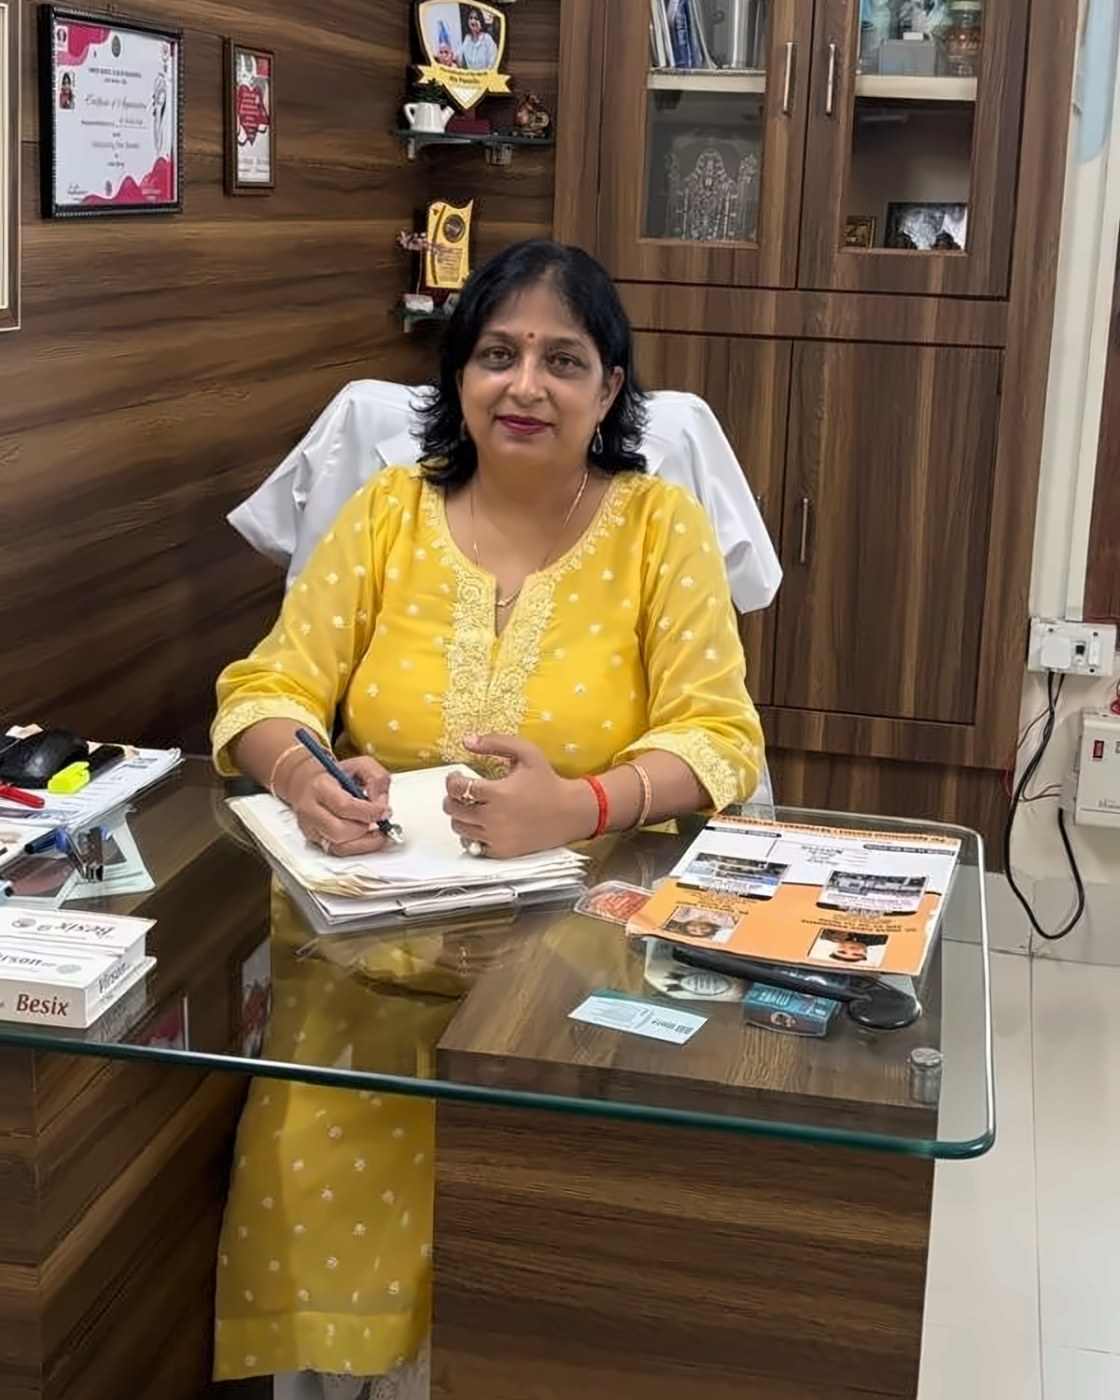
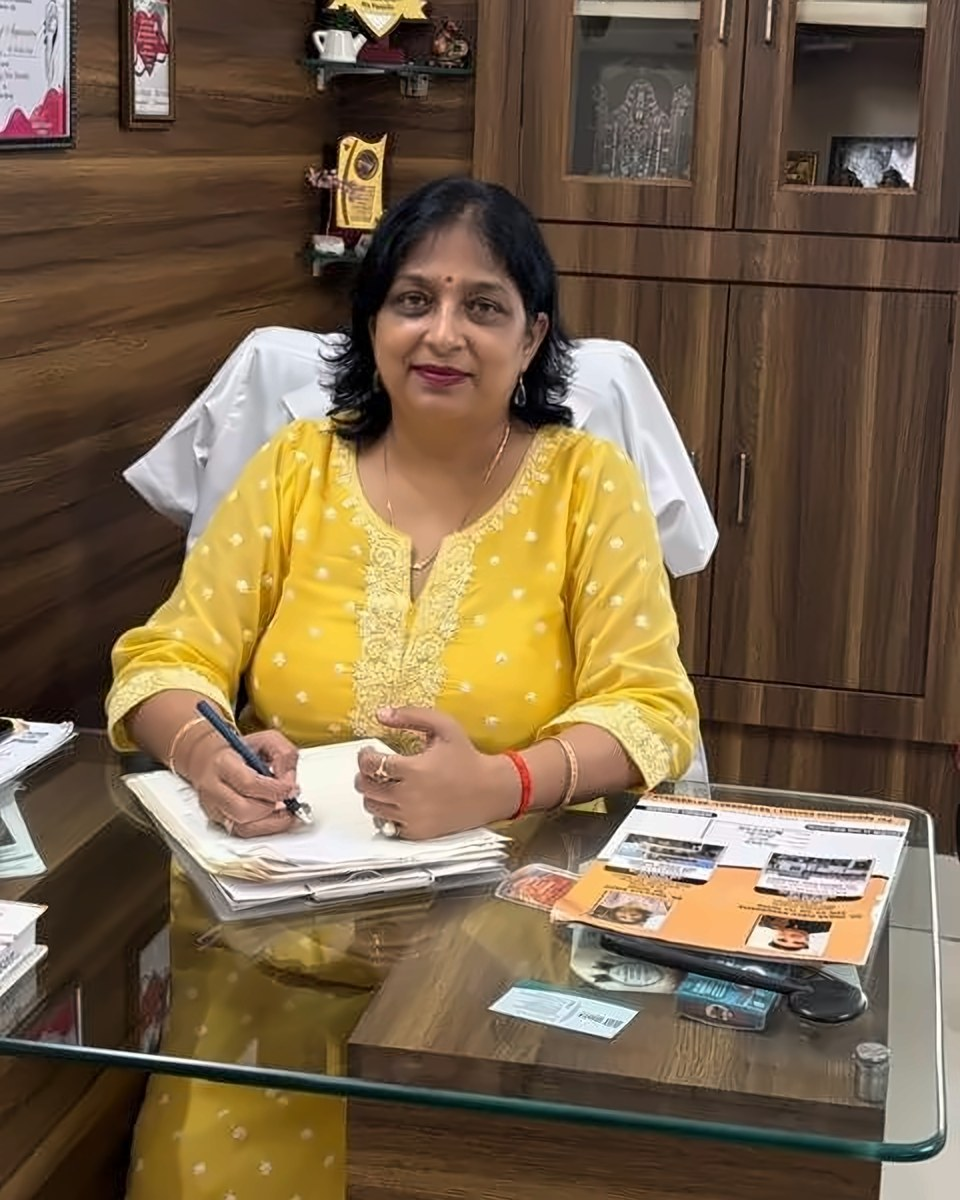
Wordmark BBSM only; free Super Speciality OPD wording; speciality and background photo swaps
- Header and footer wordmark show only BBSM (red); 'Nursing Home' dropped
- 'Last Sunday' labels now read 'Free OPD on Last Sunday of Every Month'
- Cancer & Oncology uses the hospital's consultation photo; its AI picture
  moves to the Patient Experience background; General Physician gets a new
  AI picture; Dr. Amit Raj Sharma's photo removed; Dr. Shailaja Singh re-cropped

diff --git a/src/lib/data.ts b/src/lib/data.ts
@@ -60,8 +60,8 @@ export const DOCTORS: Doctor[] = [
     role: "Gastro-Onco Surgeon",
     title: "Gastro-Onco Surgeon",
     group: "Super Speciality",
-    availability: "Last Sunday of Month | 9:00 AM – 12:00 PM",
-    days: "Last Sunday",
+    availability: "Free OPD on Last Sunday of Every Month | 9:00 AM – 12:00 PM",
+    days: "Last Sunday · Free OPD",
     time: "9 AM – 12 PM",
     institution: "Rajiv Gandhi Cancer Institute & Research Centre, New Delhi",
     forWhat: "GI cancers, stomach/abdominal oncology surgery, second opinions on cancer diagnosis",
@@ -76,8 +76,8 @@ export const DOCTORS: Doctor[] = [
     role: "IVF Specialist | Gynaecologist & Obstetrician",
     title: "IVF Specialist, Gynaecologist & Obstetrician",
     group: "Super Speciality",
-    availability: "Last Sunday of Month | 9:00 AM – 12:00 PM",
-    days: "Last Sunday",
+    availability: "Free OPD on Last Sunday of Every Month | 9:00 AM – 12:00 PM",
+    days: "Last Sunday · Free OPD",
     time: "9 AM – 12 PM",
     forWhat: "IVF, infertility, irregular periods, pregnancy care, gynaecological concerns",
     expertise: "IVF, infertility evaluation, high-risk pregnancies, antenatal care, gynaecological procedures.",
@@ -91,8 +91,8 @@ export const DOCTORS: Doctor[] = [
     role: "Uro Surgeon",
     title: "Uro Surgeon",
     group: "Super Speciality",
-    availability: "Last Sunday of Month | 9:00 AM – 12:00 PM",
-    days: "Last Sunday",
+    availability: "Free OPD on Last Sunday of Every Month | 9:00 AM – 12:00 PM",
+    days: "Last Sunday · Free OPD",
     time: "9 AM – 12 PM",
     institution: "Rajiv Gandhi Cancer Institute & Research Centre, New Delhi",
     forWhat: "Kidney stones, prostate, urinary issues, blood in urine, urological cancer",
@@ -107,8 +107,8 @@ export const DOCTORS: Doctor[] = [
     role: "Medical Oncologist",
     title: "Medical Oncologist",
     group: "Super Speciality",
-    availability: "Last Sunday of Month | 9:00 AM – 12:00 PM",
-    days: "Last Sunday",
+    availability: "Free OPD on Last Sunday of Every Month | 9:00 AM – 12:00 PM",
+    days: "Last Sunday · Free OPD",
     time: "9 AM – 12 PM",
     institution: "Rajiv Gandhi Cancer Institute & Research Centre, New Delhi",
     forWhat: "Cancer diagnosis, chemotherapy, second opinions, ongoing cancer treatment",
@@ -173,8 +173,6 @@ export const DOCTORS: Doctor[] = [
     forWhat: "Asthma, COPD, TB, breathlessness, chest infections",
     expertise: "Asthma, COPD, bronchitis, tuberculosis, chest infections, breathlessness.",
     specialities: ["chest-respiratory"],
-    portrait: "/images/dr-amit-raj-sharma.jpg",
-    portraitPosition: "50% 8%",
   },
   {
     slug: "dr-nitish-gupta",
@@ -258,7 +256,7 @@ export const SPECIALITIES: Speciality[] = [
     name: "Cancer & Oncology",
     short: "Oncology",
     doctors: ["Dr. Shivendra Singh", "Dr. Amitabh Singh", "Dr. Vineet Talwar"],
-    timing: "Last Sunday | 9–12 PM",
+    timing: "Free OPD on Last Sunday of Every Month | 9–12 PM",
     desc: "Surgical and medical oncology from senior specialists of Rajiv Gandhi Cancer Institute & Research Centre, New Delhi — diagnosis, staging, chemotherapy and second opinions.",
     intro:
       "A cancer diagnosis should not mean a long journey before the first expert opinion. Every last Sunday of the month, senior specialists from Rajiv Gandhi Cancer Institute & Research Centre, New Delhi consult at BBSM Nursing Home — bringing Delhi-level cancer expertise to Raebareli.",
@@ -269,9 +267,9 @@ export const SPECIALITIES: Speciality[] = [
       "Unexplained weight loss, persistent abdominal pain or blood in stool or urine",
       "Follow-up during or after cancer treatment",
     ],
-    image: "/images/care-oncology.jpg",
-    imagePosition: "50% 35%",
-    imageAlt: "Representative image: a doctor explaining a treatment plan to a patient and her son at the bedside",
+    image: "/images/consult-physician.jpg",
+    imagePosition: "60% 40%",
+    imageAlt: "Consultation at BBSM Nursing Home, Raebareli",
     keyword: "Cancer specialist in Raebareli",
   },
   {
@@ -279,7 +277,7 @@ export const SPECIALITIES: Speciality[] = [
     name: "Gynaecology, Obstetrics & IVF",
     short: "Gynaecology & IVF",
     doctors: ["Dr. Preeti Singh"],
-    timing: "Last Sunday | 9–12 PM",
+    timing: "Free OPD on Last Sunday of Every Month | 9–12 PM",
     desc: "IVF, infertility evaluation, high-risk pregnancies, antenatal care and gynaecological procedures.",
     intro:
       "Women's health deserves unhurried, private and expert care. Dr. Preeti Singh consults at BBSM Nursing Home every last Sunday — for fertility evaluation and IVF guidance, pregnancy care and gynaecological concerns.",
@@ -300,7 +298,7 @@ export const SPECIALITIES: Speciality[] = [
     name: "Urology Surgery",
     short: "Urology",
     doctors: ["Dr. Amitabh Singh"],
-    timing: "Last Sunday | 9–12 PM",
+    timing: "Free OPD on Last Sunday of Every Month | 9–12 PM",
     desc: "Urological surgery of the kidney, bladder, prostate and ureter, including urological oncology.",
     intro:
       "Urinary problems are common, often treatable, and too often ignored. Dr. Amitabh Singh of Rajiv Gandhi Cancer Institute, New Delhi consults at BBSM every last Sunday for kidney stones, prostate conditions and urological cancer.",
@@ -395,8 +393,9 @@ export const SPECIALITIES: Speciality[] = [
       "A general check-up, especially after 40",
       "Not sure which specialist you need — start here",
     ],
-    image: "/images/consult-physician.jpg",
-    imageAlt: "Physician consultation at BBSM Nursing Home, Raebareli",
+    image: "/images/care-general-physician.jpg",
+    imagePosition: "50% 35%",
+    imageAlt: "Representative image: a general physician listening to an elderly patient's chest with a stethoscope",
     keyword: "General physician in Raebareli",
   },
 ];
@@ -414,9 +413,9 @@ export const GROUPS: { key: Group; title: string; timing: string; accent: string
   {
     key: "Super Speciality",
     title: "Super Speciality OPD",
-    timing: "Last Sunday of Month | 9:00 AM – 12:00 PM",
+    timing: "Free OPD on Last Sunday of Every Month | 9:00 AM – 12:00 PM",
     accent: "#C52030",
-    note: "Delhi Specialists — Now in Raebareli. Every Last Sunday. Senior specialists from Rajiv Gandhi Cancer Institute & Research Centre, New Delhi. Call ahead to register.",
+    note: "Delhi Specialists — Now in Raebareli. Free OPD on the last Sunday of every month. Senior specialists from Rajiv Gandhi Cancer Institute & Research Centre, New Delhi. Call ahead to register.",
   },
   {
     key: "Visiting",
@@ -435,10 +434,10 @@ export const TIMINGS: [string, string, string, string, 0 | 1][] = [
   ["Dr. Amit Raj Sharma", "Chest & Respiratory", "Every Day", "Visiting", 0],
   ["Dr. Nitish Gupta", "Laparoscopic & Endocrine", "Every Day", "Visiting", 0],
   ["Dr. Mahima Mishra", "Neuro-Psychiatrist", "Every Day", "Visiting", 0],
-  ["Dr. Shivendra Singh", "Gastro-Onco Surgeon", "Last Sunday", "9–12 PM", 1],
-  ["Dr. Preeti Singh", "IVF & Gynaecology", "Last Sunday", "9–12 PM", 1],
-  ["Dr. Amitabh Singh", "Uro Surgery", "Last Sunday", "9–12 PM", 1],
-  ["Dr. Vineet Talwar", "Medical Oncology", "Last Sunday", "9–12 PM", 1],
+  ["Dr. Shivendra Singh", "Gastro-Onco Surgeon", "Last Sunday of Every Month (Free OPD)", "9–12 PM", 1],
+  ["Dr. Preeti Singh", "IVF & Gynaecology", "Last Sunday of Every Month (Free OPD)", "9–12 PM", 1],
+  ["Dr. Amitabh Singh", "Uro Surgery", "Last Sunday of Every Month (Free OPD)", "9–12 PM", 1],
+  ["Dr. Vineet Talwar", "Medical Oncology", "Last Sunday of Every Month (Free OPD)", "9–12 PM", 1],
 ];
 
 export const STATS = [

diff --git a/src/components/home/DoctorsPreview.tsx b/src/components/home/DoctorsPreview.tsx
@@ -37,7 +37,7 @@ export default function DoctorsPreview() {
                 <Reveal as="li" key={d.slug} delay={i * 0.03} y={14}>
                   {firstOfGroup && (
                     <div className={`meta pb-2 ${i ? "pt-8" : ""} ${d.group === "Super Speciality" ? "text-red" : d.group === "Daily OPD" ? "text-blue" : "text-ink/60"}`} style={{ fontSize: 10.5 }}>
-                      {d.group === "Super Speciality" ? "Super Speciality OPD · Last Sunday" : d.group === "Daily OPD" ? "Daily OPD · 10 AM – 4 PM" : "Daily Visiting"}
+                      {d.group === "Super Speciality" ? "Super Speciality OPD · Free OPD on Last Sunday of Every Month" : d.group === "Daily OPD" ? "Daily OPD · 10 AM – 4 PM" : "Daily Visiting"}
                     </div>
                   )}
                   <button
@@ -97,7 +97,7 @@ export default function DoctorsPreview() {
               <Link key={d.slug} href={`/doctors/${d.slug}`} className="w-[74vw] max-w-[320px] shrink-0 snap-start text-ink hover:text-ink">
                 <DoctorPortrait doctor={d} className="aspect-[4/5]" sizes="74vw" />
                 <div className={`meta mt-4 ${d.group === "Super Speciality" ? "text-red" : "text-blue"}`} style={{ fontSize: 10 }}>
-                  {d.group === "Super Speciality" ? "Last Sunday · 9–12" : d.group === "Daily OPD" ? "Daily OPD · 10–4" : "Daily Visiting"}
+                  {d.group === "Super Speciality" ? "Free OPD · Last Sunday · 9–12" : d.group === "Daily OPD" ? "Daily OPD · 10–4" : "Daily Visiting"}
                 </div>
                 <div className="mt-1.5 font-serif text-[26px] leading-[1.1]">{d.name}</div>
                 <div className="mt-1 text-[13px] font-light text-ink/65">{d.title}</div>

diff --git a/src/components/layout/Footer.tsx b/src/components/layout/Footer.tsx
@@ -11,10 +11,10 @@ type IconName = "phone" | "clock" | "calendar" | "instagram" | "star" | "pin";
 const CONTACT: { label: string; value: string; href?: string; icon: IconName }[] = [
   { label: "Appointments", value: SITE.phone, href: SITE.phoneHref, icon: "phone" },
   { label: "Daily OPD", value: "Every day, 10 AM – 4 PM", icon: "clock" },
-  { label: "Super Speciality OPD", value: "Last Sunday, 9 AM – 12 PM", icon: "calendar" },
+  { label: "Super Speciality OPD", value: "Free OPD · Last Sunday of Month", icon: "calendar" },
 ];
 
-const TICKER = ["Care You Can Trust", "Raebareli's First Nursing Home", "Est. 1983", "11 Specialists", "24×7 Emergency", "Delhi Specialists Every Last Sunday"];
+const TICKER = ["Care You Can Trust", "Raebareli's First Nursing Home", "Est. 1983", "11 Specialists", "24×7 Emergency", "Free Super Speciality OPD · Last Sunday of Every Month"];
 
 /**
  * Footer: a light contact capsule straddling the footer's top edge (echoing the header
@@ -85,7 +85,7 @@ export default function Footer() {
                 <Image src="/images/bbsm-logo.png" alt="BBSM Nursing Home — Care You Can Trust" width={50} height={64} className="h-16 w-auto" />
               </span>
               <span>
-                <span className="block font-serif text-[26px] leading-none">BBSM Nursing Home</span>
+                <span className="block font-serif text-[26px] leading-none text-red">BBSM</span>
                 <span className="mt-2 block text-[10.5px] uppercase tracking-[0.18em] text-white/55">Hospital in Raebareli · Est. 1983</span>
               </span>
             </Link>

diff --git a/src/lib/search.ts b/src/lib/search.ts
@@ -8,7 +8,7 @@ const PAGES: SearchItem[] = [
   { title: "Home", sub: "BBSM Nursing Home — hospital in Raebareli since 1983", href: "/", kind: "Page", terms: "hospital raebareli nursing home best bbsm brij bhushan" },
   { title: "About BBSM", sub: "Raebareli's first nursing home — our story", href: "/about", kind: "Page", terms: "hospital about history 1983 1972 first legacy" },
   { title: "All Doctors", sub: "11 specialists — Daily OPD, Super Speciality, Visiting", href: "/doctors", kind: "Page", terms: "doctor doctors specialist team list" },
-  { title: "OPD Timings", sub: "Daily 10 AM–4 PM · Last Sunday 9 AM–12 PM", href: "/doctors#timings", kind: "Timings", terms: "timing timings opd hours schedule time when open sunday" },
+  { title: "OPD Timings", sub: "Daily 10 AM–4 PM · Free OPD on last Sunday of every month 9 AM–12 PM", href: "/doctors#timings", kind: "Timings", terms: "timing timings opd hours schedule time when open sunday" },
   { title: "Super Speciality OPD", sub: "Delhi specialists every last Sunday, 9 AM–12 PM", href: "/doctors#super-speciality", kind: "Timings", terms: "sunday last sunday delhi rajiv gandhi cancer institute super speciality monthly" },
   { title: "Specialities", sub: "Orthopaedics, eye, oncology, IVF and more", href: "/services", kind: "Page", terms: "services departments treatments speciality specialities" },
   { title: "Founder's Tribute", sub: "Late Dr. Virendra Singh", href: "/founder", kind: "Page", terms: "virendra singh founder tribute 19 august civil surgeon" },

diff --git a/src/components/layout/Header.tsx b/src/components/layout/Header.tsx
@@ -79,7 +79,7 @@ export default function Header() {
               <span className="text-white/80">{SITE.phone}</span>
             </a>
             <span className="hidden text-white/60 md:block">
-              Daily OPD 10 AM – 4 PM <span className="mx-2 text-white/30">/</span> Super Speciality OPD · Last Sunday 9 AM – 12 PM
+              Daily OPD 10 AM – 4 PM <span className="mx-2 text-white/30">/</span> Free Super Speciality OPD · Last Sunday of Every Month · 9 AM – 12 PM
             </span>
           </div>
         </motion.div>
@@ -116,7 +116,7 @@ export default function Header() {
                 </span>
                 <span className="hidden leading-[1.15] sm:block">
                   <span className="block whitespace-nowrap font-serif text-[clamp(20px,1.85vw,24px)] leading-none">
-                    <span className="text-red">BBSM</span> <span className={dark ? "text-tribute-text" : "text-blue"}>Nursing Home</span>
+                    <span className="text-red">BBSM</span>
                   </span>
                   <span
                     className={`block overflow-hidden text-[10px] uppercase tracking-[0.16em] transition-[max-height,opacity,margin] md:text-[10.5px] lg:max-[1479px]:hidden ${SPRING} ${

diff --git a/src/app/contact/page.tsx b/src/app/contact/page.tsx
@@ -15,7 +15,7 @@ export const metadata: Metadata = {
 };
 
 const FAQ = [
-  { q: "What are the OPD timings at BBSM Nursing Home?", a: "Daily OPD runs every day from 10:00 AM to 4:00 PM for eye care. Visiting consultants, including orthopaedics, see patients daily. The Super Speciality OPD runs on the last Sunday of every month, 9:00 AM to 12:00 PM." },
+  { q: "What are the OPD timings at BBSM Nursing Home?", a: "Daily OPD runs every day from 10:00 AM to 4:00 PM for eye care. Visiting consultants, including orthopaedics, see patients daily. The Super Speciality OPD is a free OPD on the last Sunday of every month, 9:00 AM to 12:00 PM." },
   { q: "How do I book an appointment?", a: `Call ${SITE.phone}. Our team will confirm the right doctor and timing for you. For the Super Speciality OPD, please call ahead to register.` },
   { q: "Is there an emergency service?", a: `Yes — emergency care is available 24 × 7. Call ${SITE.phone} or come straight to the hospital.` },
   { q: "Which Delhi specialists visit BBSM?", a: "Every last Sunday, senior specialists including doctors from Rajiv Gandhi Cancer Institute & Research Centre, New Delhi consult at BBSM — oncology, gastro-onco surgery, urology, and IVF & gynaecology." },

diff --git a/src/app/services/[slug]/page.tsx b/src/app/services/[slug]/page.tsx
@@ -51,7 +51,7 @@ export default async function SpecialityPage({ params }: { params: Promise<{ slu
               <SplitText as="h1" trigger="mount" delay={0.2} parts={[s.name]} className="t-h1 mt-6 max-w-[14ch]" />
               <p className="a-rise body-lg mt-8 max-w-[52ch] text-white/78" style={{ animationDelay: ".55s" }}>{s.intro}</p>
               <div className="a-rise mt-9 flex flex-wrap items-center gap-x-8 gap-y-3 text-[11.5px] font-medium uppercase tracking-[0.15em]" style={{ animationDelay: ".7s" }}>
-                <span className={monthly ? "text-red" : "text-white"}>{monthly ? "Super Speciality OPD · Last Sunday · 9 AM – 12 PM" : s.timing.includes("Visiting") ? "Daily visiting consultant" : "Daily OPD · 10 AM – 4 PM"}</span>
+                <span className={monthly ? "text-red" : "text-white"}>{monthly ? "Free Super Speciality OPD · Last Sunday of Every Month · 9 AM – 12 PM" : s.timing.includes("Visiting") ? "Daily visiting consultant" : "Daily OPD · 10 AM – 4 PM"}</span>
                 <span className="text-white/55">{s.doctors.join(", ")}</span>
               </div>
               <div className="a-rise mt-10 flex flex-wrap gap-3.5" style={{ animationDelay: ".8s" }}>

diff --git a/src/components/home/PatientExperience.tsx b/src/components/home/PatientExperience.tsx
@@ -8,11 +8,11 @@ export default function PatientExperience() {
     <section className="relative isolate overflow-hidden px-[clamp(20px,4vw,64px)] py-[60px] md:py-[clamp(110px,22vh,260px)] text-white">
       <Parallax amount={90} className="absolute inset-[-90px_0] -z-20">
         <Image
-          src="/images/care-patient-experience.jpg"
-          alt="Representative image: a doctor holding an elderly patient's hand and listening, her daughter beside her"
+          src="/images/care-oncology.jpg"
+          alt="Representative image: a doctor explaining a treatment plan to a patient and her son at the bedside"
           fill
           sizes="100vw"
-          className="object-cover object-[78%_35%]"
+          className="object-cover object-[62%_40%]"
         />
       </Parallax>
       <div className="absolute inset-0 -z-10" style={{ background: "linear-gradient(100deg, rgba(6,40,70,.94) 0%, rgba(6,59,104,.82) 45%, rgba(11,34,51,.45) 100%)" }} />

diff --git a/src/lib/site.ts b/src/lib/site.ts
@@ -31,7 +31,7 @@ export const SITE = {
   facebook: "https://www.facebook.com/search/top?q=Brij%20Bhushan%20Singh%20Memorial%20Nursing",
   hours: {
     dailyOpd: "Every Day · 10:00 AM – 4:00 PM",
-    superOpd: "Last Sunday of Month · 9:00 AM – 12:00 PM",
+    superOpd: "Free OPD · Last Sunday of Every Month · 9:00 AM – 12:00 PM",
   },
 } as const;
 
